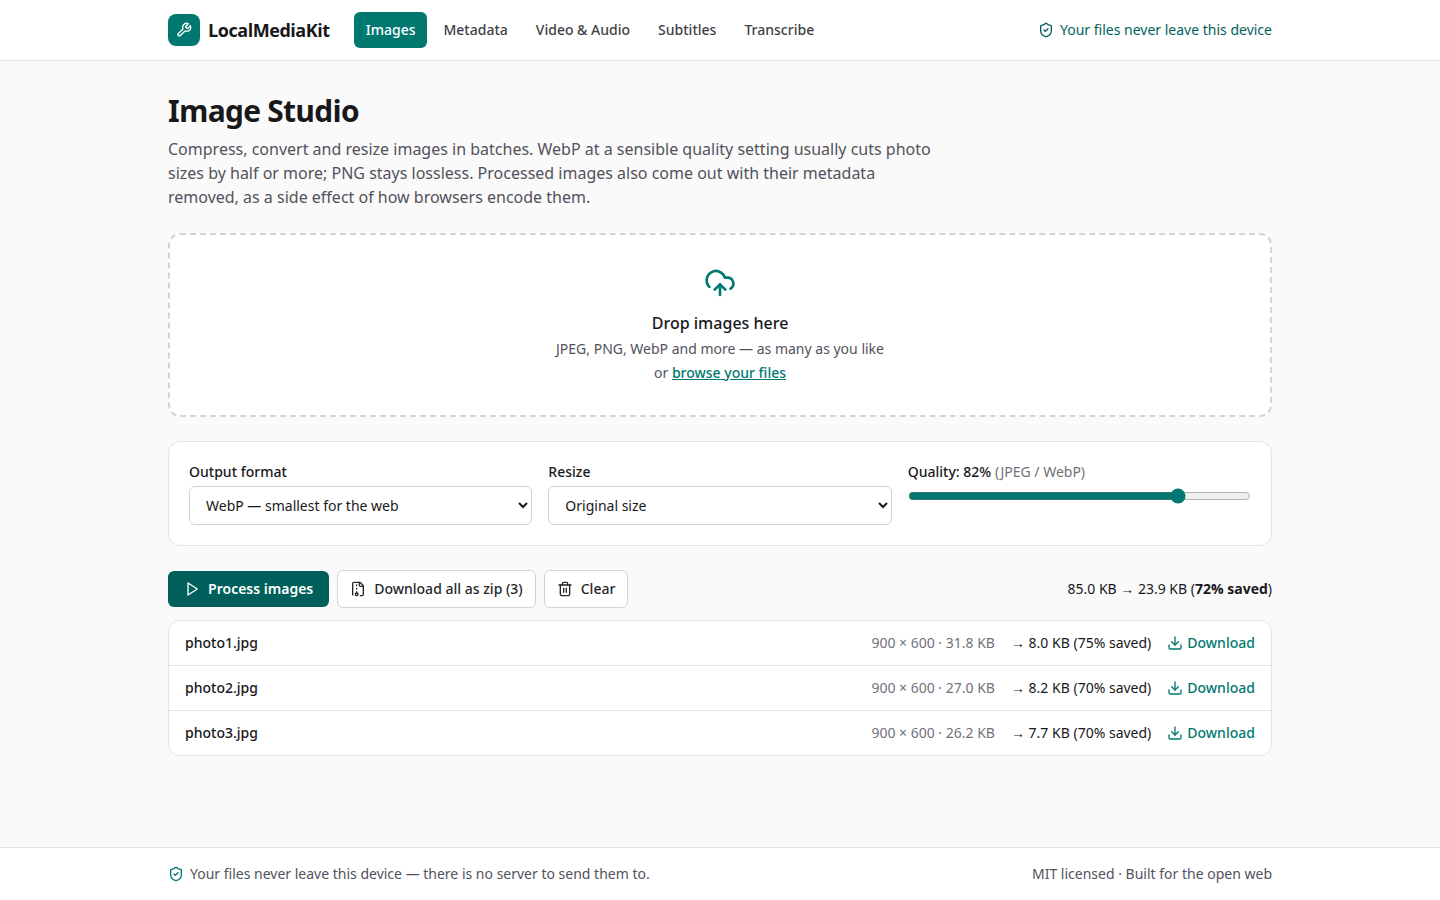
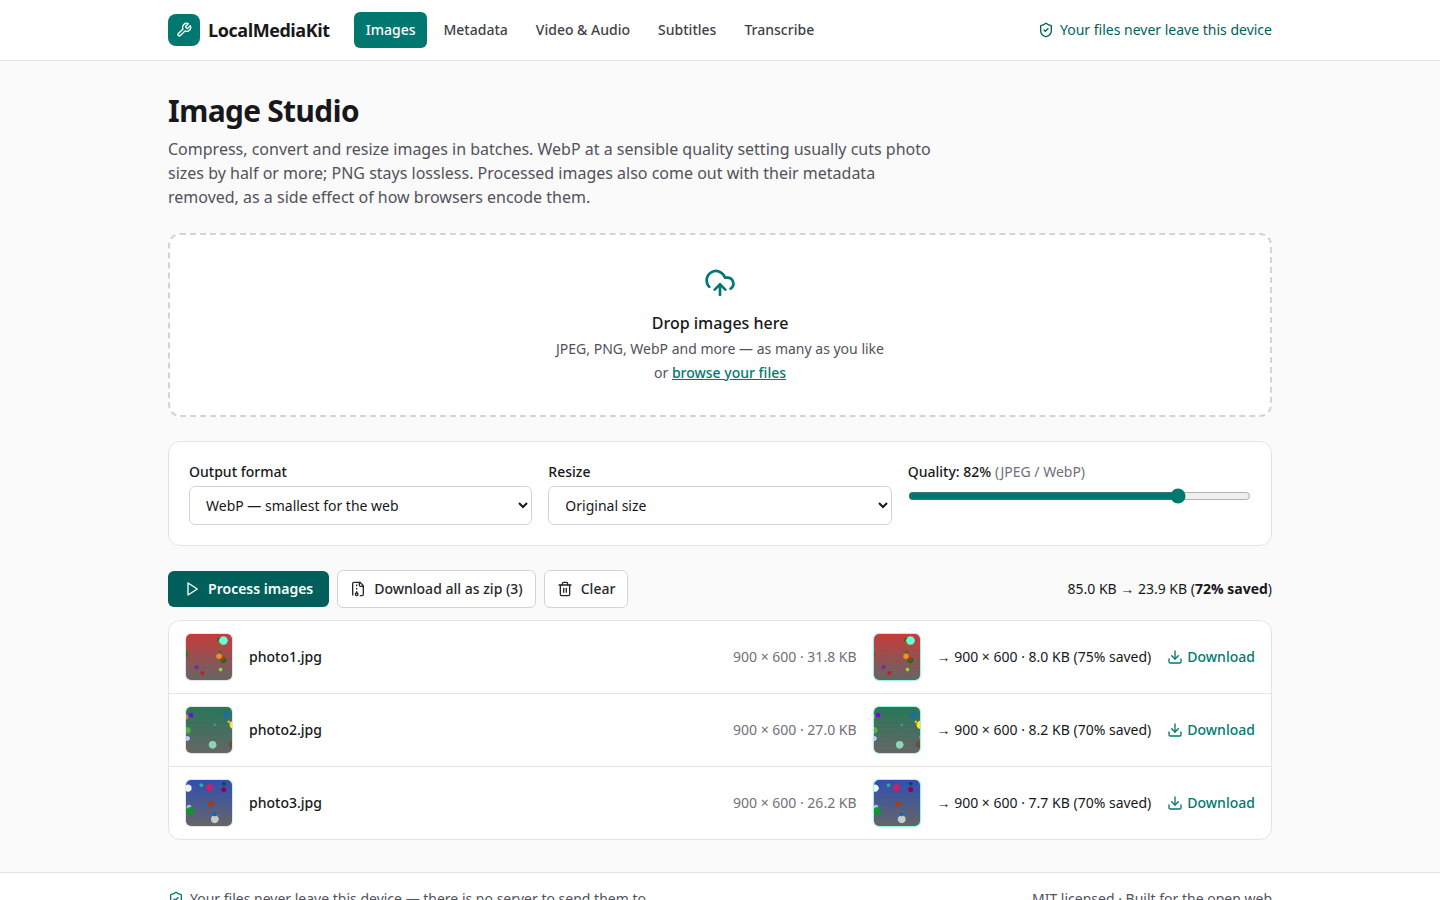
Show image previews everywhere; fix README screenshots on mobile
Image Studio now shows a thumbnail of every original photo and of each processed result (with output dimensions). Metadata Stripper shows a full preview of the photo being inspected. README: screenshots moved out of markdown tables (which the GitHub mobile app does not render) into standalone full-width images, plus a hero screenshot under the intro. Screenshots recaptured from the running app.

diff --git a/src/pages/ImageStudio.tsx b/src/pages/ImageStudio.tsx
@@ -22,10 +22,12 @@ import {
 interface ImageJob {
   id: number;
   file: File;
+  /** Object URL of the original file, so the person can see their photo. */
+  previewUrl: string;
   originalWidth?: number;
   originalHeight?: number;
   status: "waiting" | "working" | "done" | "error";
-  result?: { blob: Blob; name: string; width: number; height: number };
+  result?: { blob: Blob; name: string; width: number; height: number; previewUrl: string };
   error?: string;
 }
 
@@ -50,7 +52,12 @@ export default function ImageStudio() {
   async function addFiles(files: File[]) {
     const newJobs: ImageJob[] = files
       .filter((file) => file.type.startsWith("image/"))
-      .map((file) => ({ id: nextId++, file, status: "waiting" as const }));
+      .map((file) => ({
+        id: nextId++,
+        file,
+        previewUrl: URL.createObjectURL(file),
+        status: "waiting" as const,
+      }));
     if (newJobs.length === 0) return;
     setJobs((prev) => [...prev, ...newJobs]);
     // Read dimensions up-front so people can see what they dropped in.
@@ -97,6 +104,7 @@ export default function ImageStudio() {
                     name,
                     width: processed.width,
                     height: processed.height,
+                    previewUrl: URL.createObjectURL(processed.blob),
                   },
                 }
               : item,
@@ -239,7 +247,14 @@ export default function ImageStudio() {
             <button
               type="button"
               className={secondaryButtonClass}
-              onClick={() => setJobs([])}
+              onClick={() => {
+                // Object URLs pin the file data in memory until revoked.
+                for (const job of jobs) {
+                  URL.revokeObjectURL(job.previewUrl);
+                  if (job.result) URL.revokeObjectURL(job.result.previewUrl);
+                }
+                setJobs([]);
+              }}
               disabled={busy}
             >
               <Trash2 className="h-4 w-4" aria-hidden /> Clear
@@ -258,6 +273,12 @@ export default function ImageStudio() {
                 key={job.id}
                 className="flex flex-wrap items-center gap-x-4 gap-y-1 px-4 py-3 text-sm"
               >
+                <img
+                  src={job.previewUrl}
+                  alt={`Preview of ${job.file.name}`}
+                  className="h-12 w-12 shrink-0 rounded-md border border-zinc-200 object-cover dark:border-zinc-700"
+                  loading="lazy"
+                />
                 <span className="min-w-0 flex-1 truncate font-medium">{job.file.name}</span>
                 <span className="text-zinc-500">
                   {job.originalWidth && job.originalHeight
@@ -267,8 +288,15 @@ export default function ImageStudio() {
                 </span>
                 {job.status === "done" && job.result && (
                   <>
+                    <img
+                      src={job.result.previewUrl}
+                      alt={`Processed result for ${job.file.name}`}
+                      className="h-12 w-12 shrink-0 rounded-md border border-teal-200 object-cover dark:border-teal-800"
+                      loading="lazy"
+                    />
                     <span>
-                      → {formatBytes(job.result.blob.size)} (
+                      → {job.result.width} × {job.result.height} ·{" "}
+                      {formatBytes(job.result.blob.size)} (
                       {savingsPercent(job.file.size, job.result.blob.size)}% saved)
                     </span>
                     <button

diff --git a/src/pages/MetadataStripper.tsx b/src/pages/MetadataStripper.tsx
@@ -19,6 +19,7 @@ interface Inspected {
 
 export default function MetadataStripper() {
   const [item, setItem] = useState<Inspected | null>(null);
+  const [previewUrl, setPreviewUrl] = useState<string | null>(null);
   const [busy, setBusy] = useState(false);
 
   async function inspect(files: File[]) {
@@ -26,6 +27,12 @@ export default function MetadataStripper() {
     if (!file) return;
     setBusy(true);
     setItem(null);
+    // Show the photo itself, not just its filename — people should see
+    // exactly which picture they are about to clean and share.
+    setPreviewUrl((previous) => {
+      if (previous) URL.revokeObjectURL(previous);
+      return URL.createObjectURL(file);
+    });
     try {
       // Dynamic import: exifr is only needed on this page.
       const { default: exifr } = await import("exifr");
@@ -112,6 +119,14 @@ export default function MetadataStripper() {
             {item.file.name}{" "}
             <span className="font-normal text-zinc-500">({formatBytes(item.file.size)})</span>
           </h2>
+
+          {previewUrl && (
+            <img
+              src={previewUrl}
+              alt={`Preview of ${item.file.name}`}
+              className="mt-3 max-h-80 w-full rounded-lg border border-zinc-200 object-contain dark:border-zinc-700"
+            />
+          )}
 
           {item.error && (
             <p role="alert" className="mt-2 text-sm text-amber-700 dark:text-amber-300">

diff --git a/README.md b/README.md
@@ -11,17 +11,25 @@ sites, with no uploads, no accounts, and no file-size upsells. Your files never 
 > in a queue. LocalMediaKit works like this: the processing happens in this browser tab, on
 > your machine. Close the tab and everything is gone.
 
+![LocalMediaKit home — five local media tools](docs/screenshots/home.png)
+
 ## Screenshots
 
 <!-- Capture guide: docs/screenshots/README.md — real captures only, please. -->
+<!-- Screenshots are standalone full-width images on purpose: images inside
+     markdown tables do not render in the GitHub mobile app. -->
 
-| Home | Image Studio |
-| --- | --- |
-| ![Home](docs/screenshots/home.png) | ![Image Studio](docs/screenshots/image-studio.png) |
+**Image Studio** — three photos converted to WebP, 72% saved in total, with a preview of every file:
 
-| Metadata Stripper | Video & Audio Studio |
-| --- | --- |
-| ![Metadata](docs/screenshots/metadata.png) | ![Video Studio](docs/screenshots/video-studio.png) |
+![Image Studio — batch image compression with previews and savings](docs/screenshots/image-studio.png)
+
+**Metadata Stripper** — a photo's hidden GPS location, exposed before stripping:
+
+![Metadata Stripper — GPS location warning on a photo](docs/screenshots/metadata.png)
+
+**Video & Audio Studio** — ffmpeg running in the browser, audio extracted from a clip:
+
+![Video and Audio Studio — extracting audio from a video, in the browser](docs/screenshots/video-studio.png)
 
 ## The tools
 
